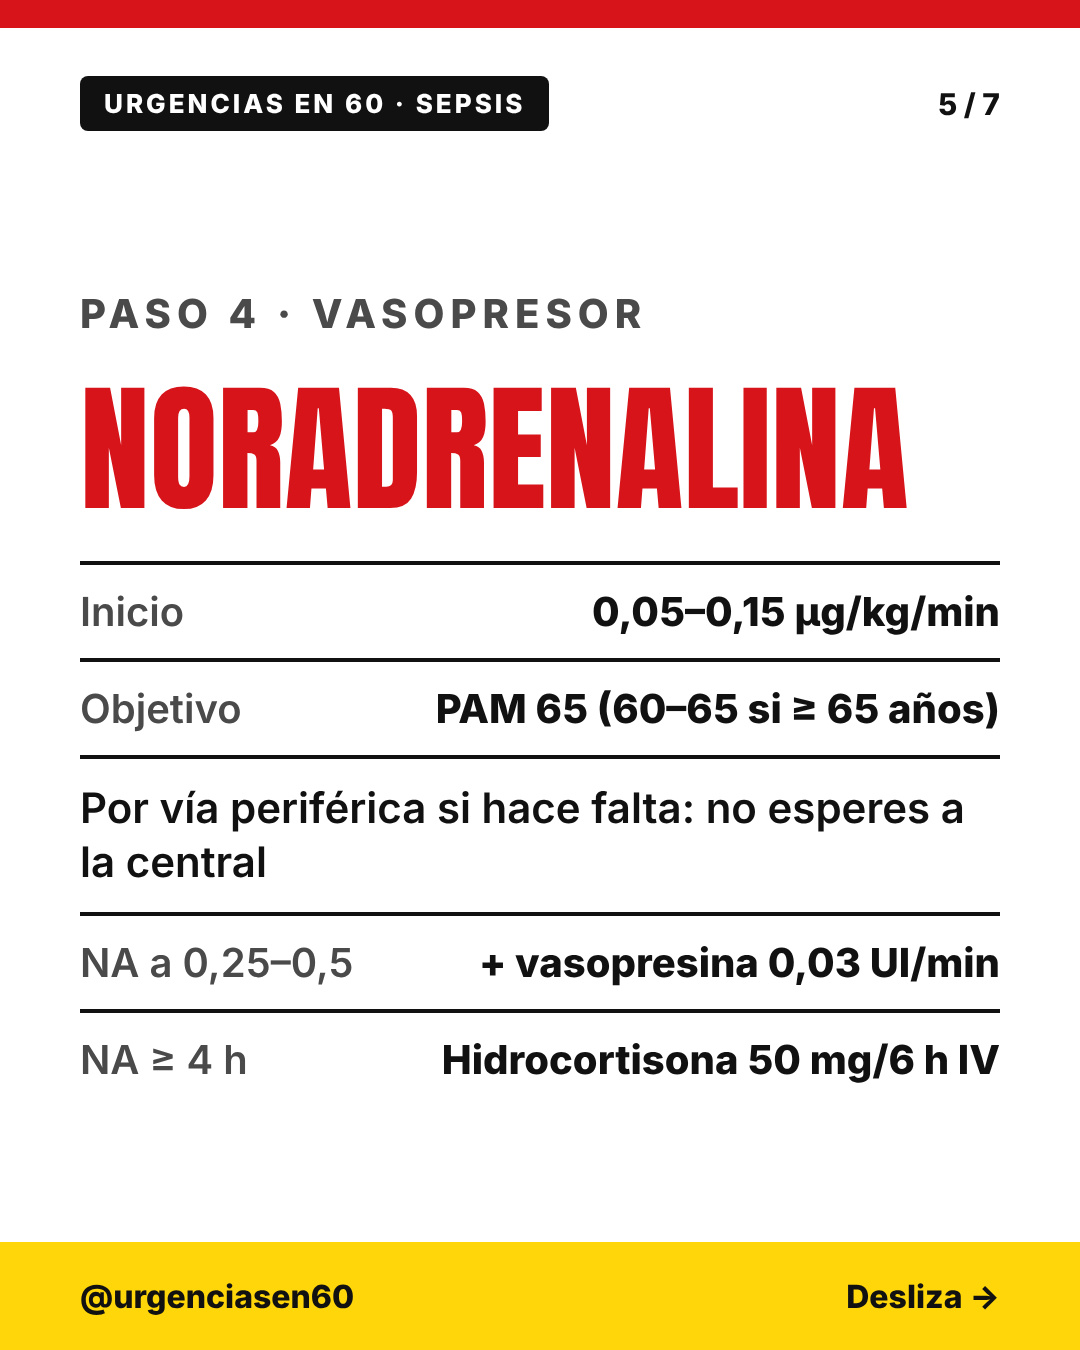
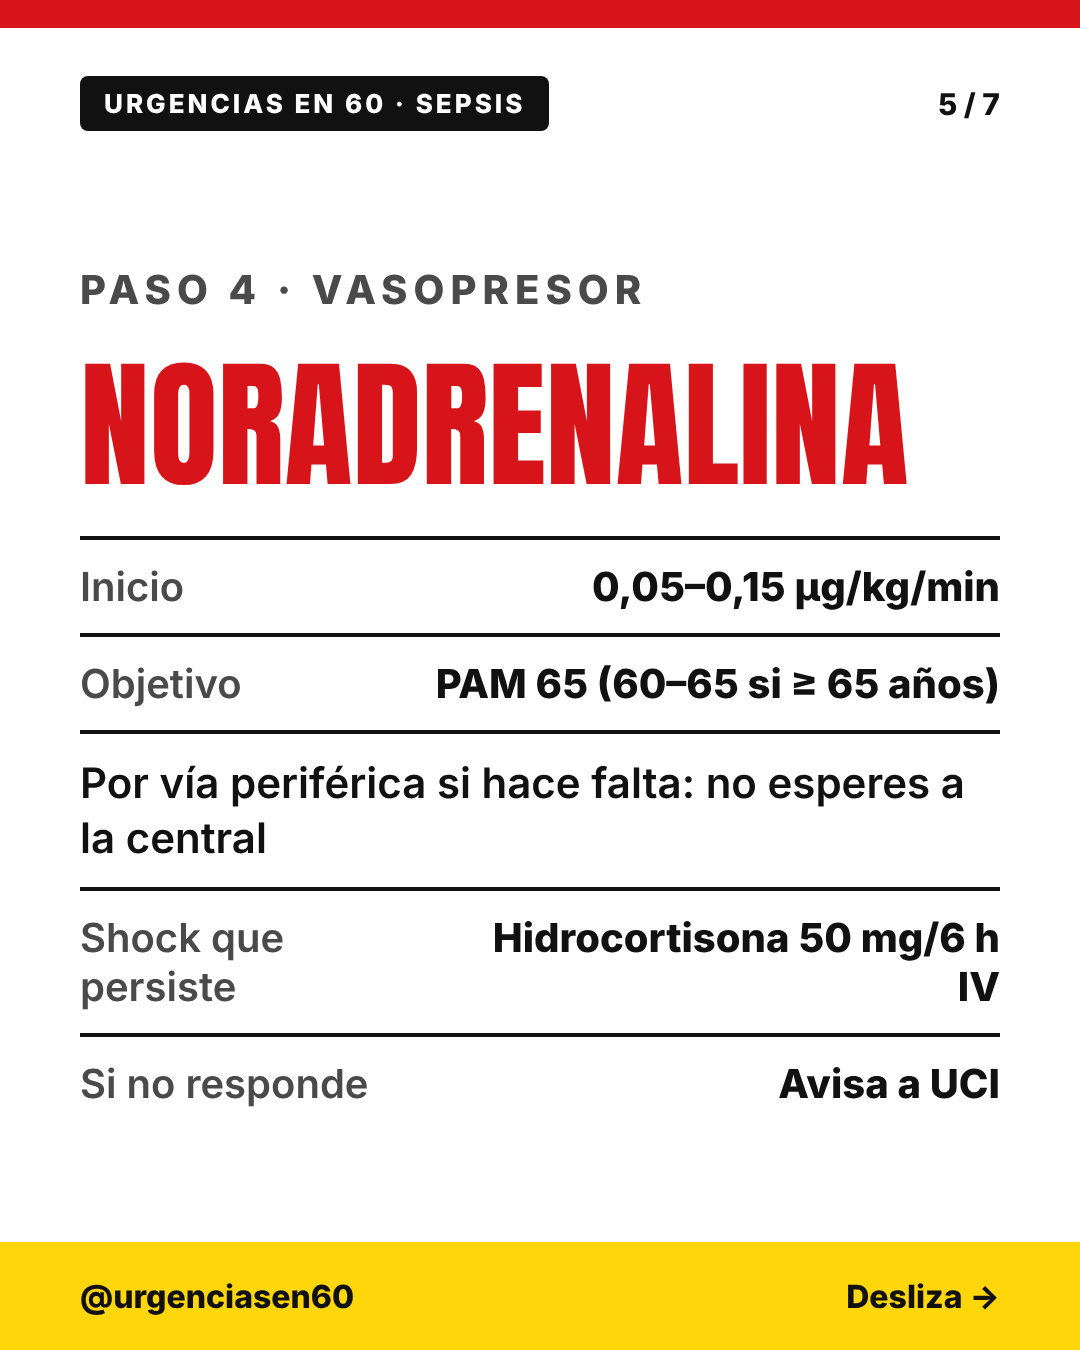
Ficha 06 sepsis: sin vasopresina; si no responde, UCI
Claude-Session: https://claude.ai/code/session_019S5PG2ppqwuZwMv2DxeA6e

Changed region(s): [[0.0611, 0.1867, 0.9472, 0.84]]

diff --git a/tools/sepsis.py b/tools/sepsis.py
@@ -8,8 +8,8 @@ page(1,N,T,big("SEPSIS",250,nowrap=True)+big(f'LA PRIMERA HORA <span style="colo
 page(2,N,T,kicker("PASO 1 · SOSPECHA")+big("CRIBA CON UNA ESCALA",112)+rows(line("NEWS, NEWS2, MEWS o SIRS",True),line("El qSOFA, por sí solo, no sirve como cribado"),line("Busca hipoperfusión: hipotensión, lactato elevado, relleno capilar lento"))+note("La sepsis y el shock séptico son emergencias: el tratamiento empieza de inmediato.")),
 page(3,N,T,kicker("PASO 2 · ANTIBIÓTICO")+big("EN 1 HORA",200,R,True)+rows(row("Shock o sepsis probable","≤ 1 h"),row("Sepsis posible, sin shock","≤ 3 h"),row("Sin foco","Ceftriaxona"),row("Sanitaria o multirresistentes","Ceftriaxona + amikacina o pip-tazo"),row("Shock séptico","Meropenem + vancomicina ± amikacina"))+note("Hemocultivos antes, sin retrasarlo. Con foco conocido, la pauta del foco. Ajusta a la guía de tu hospital.")),
 page(4,N,T,kicker("PASO 3 · FLUIDOS")+big("30 ML/KG",230,R,True)+'<div style="font-size:48px;font-weight:800;line-height:1.2">De cristaloide, en las 3 primeras horas, si hay hipoperfusión o shock</div>'+rows(row("Tipo","Balanceado (Ringer lactato) antes que salino 0,9 %"),row("Si IMC &gt; 30","Calcula con peso ajustado o ideal"))+note("Es un mínimo orientativo: reevalúa e individualiza con medidas dinámicas.")),
-page(5,N,T,kicker("PASO 4 · VASOPRESOR")+big("NORADRENALINA",140,R,True)+rows(row("Inicio","0,05–0,15 µg/kg/min"),row("Objetivo","PAM 65 (60–65 si ≥ 65 años)"),line("Por vía periférica si hace falta: no esperes a la central"),row("NA a 0,25–0,5","+ vasopresina 0,03 UI/min"),row("NA ≥ 4 h","Hidrocortisona 50 mg/6 h IV"))),
+page(5,N,T,kicker("PASO 4 · VASOPRESOR")+big("NORADRENALINA",140,R,True)+rows(row("Inicio","0,05–0,15 µg/kg/min"),row("Objetivo","PAM 65 (60–65 si ≥ 65 años)"),line("Por vía periférica si hace falta: no esperes a la central"),row("Shock que persiste","Hidrocortisona 50 mg/6 h IV"),row("Si no responde","Avisa a UCI"))),
 page(6,N,T,kicker("Y NO OLVIDES")+big("CONTROLA EL FOCO",128)+rows(line("Drenar, desobstruir o retirar el dispositivo infectado cuanto antes",True),line("Desescala el antibiótico cuando llegue el antibiograma"),line("Pasada la reanimación, retira el exceso de líquido"))+note("El antibiótico sin control del foco no resuelve la sepsis.")),
-page(7,N,T,ficha_body("SEPSIS","Adulto",[("CRIBADO","NEWS2, NEWS, MEWS o SIRS. No qSOFA aislado"),("ANTIBIÓTICO","≤ 1 h si shock o sepsis probable; ≤ 3 h si posible. Sin foco: ceftriaxona. Shock: meropenem + vancomicina ± amikacina",True),("FLUIDOS","Cristaloide balanceado (Ringer lactato) ≥ 30 ml/kg en 3 h si hay hipoperfusión. Reevaluar"),("NORADREN.","0,05–0,15 µg/kg/min, también periférica. PAM 65 (60–65 si ≥ 65 años)"),("SI PERSISTE","NA 0,25–0,5: + vasopresina 0,03 UI/min. ≥ 4 h: hidrocortisona 50 mg/6 h IV",True),("FOCO","Hemocultivos antes del antibiótico. Control del foco precoz")],"Prescott HC, et al. Surviving Sepsis Campaign 2026. Crit Care Med 2026; Guía antimicrobiana HU Puerta del Mar (antibióticos)",size=120,fs=30),ficha="06"),
+page(7,N,T,ficha_body("SEPSIS","Adulto",[("CRIBADO","NEWS2, NEWS, MEWS o SIRS. No qSOFA aislado"),("ANTIBIÓTICO","≤ 1 h si shock o sepsis probable; ≤ 3 h si posible. Sin foco: ceftriaxona. Shock: meropenem + vancomicina ± amikacina",True),("FLUIDOS","Cristaloide balanceado (Ringer lactato) ≥ 30 ml/kg en 3 h si hay hipoperfusión. Reevaluar"),("NORADREN.","0,05–0,15 µg/kg/min, también periférica. PAM 65 (60–65 si ≥ 65 años)"),("SI PERSISTE","Hidrocortisona 50 mg/6 h IV. Avisa a UCI",True),("FOCO","Hemocultivos antes del antibiótico. Control del foco precoz")],"Prescott HC, et al. Surviving Sepsis Campaign 2026. Crit Care Med 2026; Guía antimicrobiana HU Puerta del Mar (antibióticos)",size=120,fs=30),ficha="06"),
 ]
 render(P,sys.argv[1] if len(sys.argv)>1 else "out","sepsis")
